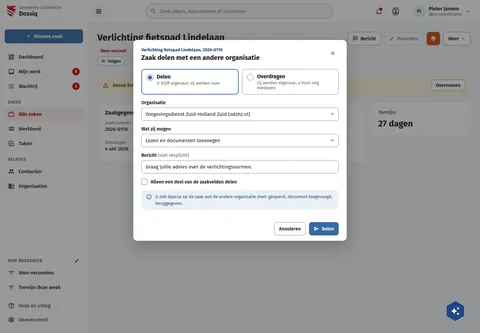
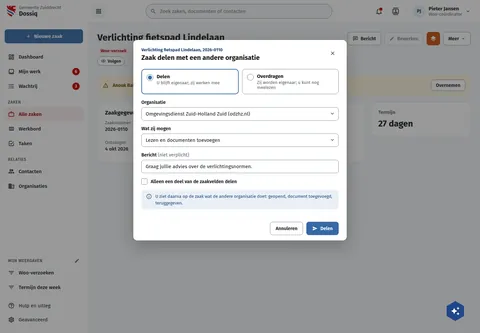
fix(screens): DqZaakSamenwerken's options and footer as the other dialogs
The Delen/Overdragen option names at 15px like every dialog's options (they
inherited 16), and the footer buttons padded as the dialog boards draw them:
16px for Annuleren, 18px for Delen with its icon (r32: 16 vs 15, 14 vs 18).

Assisted-by: ClaudeCode:claude-opus-5-5

diff --git a/preview/screens/boards/DqZaakSamenwerken.html b/preview/screens/boards/DqZaakSamenwerken.html
@@ -154,8 +154,8 @@ a{color:var(--sc-primary, #3669a5)}a:hover{color:var(--sc-primary-deep, #234a78)
         <div style="display: flex; flex-direction: column; gap: 4px"><span style="font-size: 13px; font-weight: 700; color: var(--sc-primary-deep, #234a78)">Verlichting fietspad Lindelaan, 2026-0110</span><h2 id="dlg-titel" style="margin: 0; font-size: 20px; font-weight: 700">Zaak delen met een andere organisatie</h2></div>
         <button type="button" aria-label="Sluiten" style="width: 36px; height: 36px; border: 0; border-radius: 18px; background: transparent; color: var(--sc-work-text, #3d4047); display: inline-flex; align-items: center; justify-content: center"><svg width="18" height="18" viewbox="0 0 24 24" fill="currentColor" aria-hidden="true"><path d="M19,6.41L17.59,5L12,10.59L6.41,5L5,6.41L10.59,12L5,17.59L6.41,19L12,13.41L17.59,19L19,17.59L13.41,12L19,6.41Z"></path></svg></button>
       </div>
-      <div style="padding: 18px 24px 20px; display: flex; flex-direction: column; gap: 16px"><fieldset style="margin: 0; padding: 0; border: 0; display: flex; gap: 10px"><label style="flex: 1; display: flex; gap: 10px; align-items: flex-start; padding: 12px 14px; border: 2px solid var(--sc-primary, #3669a5); border-radius: 10px"><input type="radio" checked style="width: 20px; height: 20px; margin: 2px 0 0; accent-color: var(--sc-primary, #3669a5); flex: none"><span style="display: flex; flex-direction: column; gap: 2px"><strong>Delen</strong><span style="font-size: 13px; color: var(--sc-work-muted, #5e6168)">U blijft eigenaar; zij werken mee</span></span></label><label style="flex: 1; display: flex; gap: 10px; align-items: flex-start; padding: 12px 14px; border: 1px solid var(--sc-work-field, #828a95); border-radius: 10px"><input type="radio" style="width: 20px; height: 20px; margin: 2px 0 0; accent-color: var(--sc-primary, #3669a5); flex: none"><span style="display: flex; flex-direction: column; gap: 2px"><strong>Overdragen</strong><span style="font-size: 13px; color: var(--sc-work-muted, #5e6168)">Zij worden eigenaar; u kunt nog meelezen</span></span></label></fieldset><div style="display: flex; flex-direction: column; gap: 6px"><label style="font-size: 14px; font-weight: 600">Organisatie</label><div style="position: relative"><select style="appearance: none; width: 100%; height: 40px; box-sizing: border-box; padding: 0 36px 0 12px; border: 1px solid var(--sc-work-field, #828a95); border-radius: 8px; background: #ffffff; font: 400 15px var(--sc-font, 'Fira Sans'), sans-serif; color: var(--sc-work-ink, #1b1c1d)"><option>Omgevingsdienst Zuid-Holland Zuid (odzhz.nl)</option></select><span style="position: absolute; right: 10px; top: 10px; color: var(--sc-work-text, #3d4047)"><svg width="18" height="18" viewbox="0 0 24 24" fill="currentColor" aria-hidden="true"><path d="M7.41,8.58L12,13.17L16.59,8.58L18,10L12,16L6,10L7.41,8.58Z"></path></svg></span></div></div><div style="display: flex; flex-direction: column; gap: 6px"><label style="font-size: 14px; font-weight: 600">Wat zij mogen</label><div style="position: relative"><select style="appearance: none; width: 100%; height: 40px; box-sizing: border-box; padding: 0 36px 0 12px; border: 1px solid var(--sc-work-field, #828a95); border-radius: 8px; background: #ffffff; font: 400 15px var(--sc-font, 'Fira Sans'), sans-serif; color: var(--sc-work-ink, #1b1c1d)"><option>Lezen en documenten toevoegen</option></select><span style="position: absolute; right: 10px; top: 10px; color: var(--sc-work-text, #3d4047)"><svg width="18" height="18" viewbox="0 0 24 24" fill="currentColor" aria-hidden="true"><path d="M7.41,8.58L12,13.17L16.59,8.58L18,10L12,16L6,10L7.41,8.58Z"></path></svg></span></div></div><div style="display: flex; flex-direction: column; gap: 6px"><label style="font-size: 14px; font-weight: 600">Bericht <span style="font-weight: 400; color: var(--sc-work-muted, #5e6168)">(niet verplicht)</span></label><input type="text" value="Graag jullie advies over de verlichtingsnormen." style="box-sizing: border-box; width: 100%; height: 40px; padding: 0 12px; border: 1px solid var(--sc-work-field, #828a95); border-radius: 8px; background: #ffffff; font: 400 15px var(--sc-font, 'Fira Sans'), sans-serif; color: var(--sc-work-ink, #1b1c1d)"></div><label style="display: flex; gap: 10px; align-items: center; font-size: 14px; font-weight: 600"><input type="checkbox" style="width: 18px; height: 18px; margin: 0; accent-color: var(--sc-primary, #3669a5); flex: none">Alleen een deel van de zaakvelden delen</label><div style="display: flex; gap: 10px; align-items: flex-start; padding: 10px 14px; border-radius: 10px; background: var(--sc-primary-light, #eaf0f7); color: var(--sc-primary-deep, #234a78); font-size: 13px; line-height: 1.5"><span style="flex: none; margin-top: 1px"><svg width="18" height="18" viewbox="0 0 24 24" fill="currentColor" aria-hidden="true"><path d="M11,9H13V7H11M12,20C7.59,20 4,16.41 4,12C4,7.59 7.59,4 12,4C16.41,4 20,7.59 20,12C20,16.41 16.41,20 12,20M12,2A10,10 0 0,0 2,12A10,10 0 0,0 12,22A10,10 0 0,0 22,12A10,10 0 0,0 12,2M11,17H13V11H11V17Z"></path></svg></span><span>U ziet daarna op de zaak wat de andere organisatie doet: geopend, document toegevoegd, teruggegeven.</span></div></div>
-      <div style="display: flex; justify-content: flex-end; gap: 10px; padding: 16px 24px; border-top: 1px solid var(--sc-work-soft, #eef0f3)"><button type="button" style="display: inline-flex; align-items: center; gap: 8px; height: 40px; padding: 0 14px; border-radius: 8px; font: 600 14px var(--sc-font, 'Fira Sans'), sans-serif; white-space: nowrap; border: 1px solid var(--sc-work-field, #828a95); background: #ffffff; color: var(--sc-work-ink, #1b1c1d);">Annuleren</button><button type="button" style="display: inline-flex; align-items: center; gap: 8px; height: 40px; padding: 0 14px; border-radius: 8px; font: 600 14px var(--sc-font, 'Fira Sans'), sans-serif; white-space: nowrap; border: 0; background: var(--sc-primary, #3669a5); color: #ffffff;"><svg width="16" height="16" viewbox="0 0 24 24" fill="currentColor" aria-hidden="true"><path d="M2,21L23,12L2,3V10L17,12L2,14V21Z"></path></svg>Delen</button></div>
+      <div style="padding: 18px 24px 20px; display: flex; flex-direction: column; gap: 16px"><fieldset style="margin: 0; padding: 0; border: 0; display: flex; gap: 10px"><label style="flex: 1; display: flex; gap: 10px; align-items: flex-start; padding: 12px 14px; border: 2px solid var(--sc-primary, #3669a5); border-radius: 10px"><input type="radio" checked style="width: 20px; height: 20px; margin: 2px 0 0; accent-color: var(--sc-primary, #3669a5); flex: none"><span style="display: flex; flex-direction: column; gap: 2px"><strong style="font-size: 15px">Delen</strong><span style="font-size: 13px; color: var(--sc-work-muted, #5e6168)">U blijft eigenaar; zij werken mee</span></span></label><label style="flex: 1; display: flex; gap: 10px; align-items: flex-start; padding: 12px 14px; border: 1px solid var(--sc-work-field, #828a95); border-radius: 10px"><input type="radio" style="width: 20px; height: 20px; margin: 2px 0 0; accent-color: var(--sc-primary, #3669a5); flex: none"><span style="display: flex; flex-direction: column; gap: 2px"><strong style="font-size: 15px">Overdragen</strong><span style="font-size: 13px; color: var(--sc-work-muted, #5e6168)">Zij worden eigenaar; u kunt nog meelezen</span></span></label></fieldset><div style="display: flex; flex-direction: column; gap: 6px"><label style="font-size: 14px; font-weight: 600">Organisatie</label><div style="position: relative"><select style="appearance: none; width: 100%; height: 40px; box-sizing: border-box; padding: 0 36px 0 12px; border: 1px solid var(--sc-work-field, #828a95); border-radius: 8px; background: #ffffff; font: 400 15px var(--sc-font, 'Fira Sans'), sans-serif; color: var(--sc-work-ink, #1b1c1d)"><option>Omgevingsdienst Zuid-Holland Zuid (odzhz.nl)</option></select><span style="position: absolute; right: 10px; top: 10px; color: var(--sc-work-text, #3d4047)"><svg width="18" height="18" viewbox="0 0 24 24" fill="currentColor" aria-hidden="true"><path d="M7.41,8.58L12,13.17L16.59,8.58L18,10L12,16L6,10L7.41,8.58Z"></path></svg></span></div></div><div style="display: flex; flex-direction: column; gap: 6px"><label style="font-size: 14px; font-weight: 600">Wat zij mogen</label><div style="position: relative"><select style="appearance: none; width: 100%; height: 40px; box-sizing: border-box; padding: 0 36px 0 12px; border: 1px solid var(--sc-work-field, #828a95); border-radius: 8px; background: #ffffff; font: 400 15px var(--sc-font, 'Fira Sans'), sans-serif; color: var(--sc-work-ink, #1b1c1d)"><option>Lezen en documenten toevoegen</option></select><span style="position: absolute; right: 10px; top: 10px; color: var(--sc-work-text, #3d4047)"><svg width="18" height="18" viewbox="0 0 24 24" fill="currentColor" aria-hidden="true"><path d="M7.41,8.58L12,13.17L16.59,8.58L18,10L12,16L6,10L7.41,8.58Z"></path></svg></span></div></div><div style="display: flex; flex-direction: column; gap: 6px"><label style="font-size: 14px; font-weight: 600">Bericht <span style="font-weight: 400; color: var(--sc-work-muted, #5e6168)">(niet verplicht)</span></label><input type="text" value="Graag jullie advies over de verlichtingsnormen." style="box-sizing: border-box; width: 100%; height: 40px; padding: 0 12px; border: 1px solid var(--sc-work-field, #828a95); border-radius: 8px; background: #ffffff; font: 400 15px var(--sc-font, 'Fira Sans'), sans-serif; color: var(--sc-work-ink, #1b1c1d)"></div><label style="display: flex; gap: 10px; align-items: center; font-size: 14px; font-weight: 600"><input type="checkbox" style="width: 18px; height: 18px; margin: 0; accent-color: var(--sc-primary, #3669a5); flex: none">Alleen een deel van de zaakvelden delen</label><div style="display: flex; gap: 10px; align-items: flex-start; padding: 10px 14px; border-radius: 10px; background: var(--sc-primary-light, #eaf0f7); color: var(--sc-primary-deep, #234a78); font-size: 13px; line-height: 1.5"><span style="flex: none; margin-top: 1px"><svg width="18" height="18" viewbox="0 0 24 24" fill="currentColor" aria-hidden="true"><path d="M11,9H13V7H11M12,20C7.59,20 4,16.41 4,12C4,7.59 7.59,4 12,4C16.41,4 20,7.59 20,12C20,16.41 16.41,20 12,20M12,2A10,10 0 0,0 2,12A10,10 0 0,0 12,22A10,10 0 0,0 22,12A10,10 0 0,0 12,2M11,17H13V11H11V17Z"></path></svg></span><span>U ziet daarna op de zaak wat de andere organisatie doet: geopend, document toegevoegd, teruggegeven.</span></div></div>
+      <div style="display: flex; justify-content: flex-end; gap: 10px; padding: 16px 24px; border-top: 1px solid var(--sc-work-soft, #eef0f3)"><button type="button" style="display: inline-flex; align-items: center; gap: 8px; height: 40px; padding: 0 16px; border-radius: 8px; font: 600 14px var(--sc-font, 'Fira Sans'), sans-serif; white-space: nowrap; border: 1px solid var(--sc-work-field, #828a95); background: #ffffff; color: var(--sc-work-ink, #1b1c1d);">Annuleren</button><button type="button" style="display: inline-flex; align-items: center; gap: 8px; height: 40px; padding: 0 18px; border-radius: 8px; font: 600 14px var(--sc-font, 'Fira Sans'), sans-serif; white-space: nowrap; border: 0; background: var(--sc-primary, #3669a5); color: #ffffff;"><svg width="16" height="16" viewbox="0 0 24 24" fill="currentColor" aria-hidden="true"><path d="M2,21L23,12L2,3V10L17,12L2,14V21Z"></path></svg>Delen</button></div>
     </div>
   </div>
 </div>

diff --git a/screens-src/zuiddrecht/DqZaakSamenwerken.dc.html b/screens-src/zuiddrecht/DqZaakSamenwerken.dc.html
@@ -36,8 +36,8 @@ a{color:#3669a5}a:hover{color:#234a78}
         <div style="display: flex; flex-direction: column; gap: 4px"><span style="font-size: 13px; font-weight: 700; color: #234a78">Verlichting fietspad Lindelaan, 2026-0110</span><h2 id="dlg-titel" style="margin: 0; font-size: 20px; font-weight: 700">Zaak delen met een andere organisatie</h2></div>
         <button type="button" aria-label="Sluiten" style="width: 36px; height: 36px; border: 0; border-radius: 18px; background: transparent; color: #3d4047; display: inline-flex; align-items: center; justify-content: center"><svg width="18" height="18" viewBox="0 0 24 24" fill="currentColor" aria-hidden="true"><path d="M19,6.41L17.59,5L12,10.59L6.41,5L5,6.41L10.59,12L5,17.59L6.41,19L12,13.41L17.59,19L19,17.59L13.41,12L19,6.41Z"></path></svg></button>
       </div>
-      <div style="padding: 18px 24px 20px; display: flex; flex-direction: column; gap: 16px"><fieldset style="margin: 0; padding: 0; border: 0; display: flex; gap: 10px"><label style="flex: 1; display: flex; gap: 10px; align-items: flex-start; padding: 12px 14px; border: 2px solid #3669a5; border-radius: 10px"><input type="radio" checked style="width: 20px; height: 20px; margin: 2px 0 0; accent-color: #3669a5; flex: none"><span style="display: flex; flex-direction: column; gap: 2px"><strong>Delen</strong><span style="font-size: 13px; color: #5e6168">U blijft eigenaar; zij werken mee</span></span></label><label style="flex: 1; display: flex; gap: 10px; align-items: flex-start; padding: 12px 14px; border: 1px solid #828a95; border-radius: 10px"><input type="radio"  style="width: 20px; height: 20px; margin: 2px 0 0; accent-color: #3669a5; flex: none"><span style="display: flex; flex-direction: column; gap: 2px"><strong>Overdragen</strong><span style="font-size: 13px; color: #5e6168">Zij worden eigenaar; u kunt nog meelezen</span></span></label></fieldset><div style="display: flex; flex-direction: column; gap: 6px"><label style="font-size: 14px; font-weight: 600">Organisatie</label><div style="position: relative"><select style="appearance: none; width: 100%; height: 40px; box-sizing: border-box; padding: 0 36px 0 12px; border: 1px solid #828a95; border-radius: 8px; background: #ffffff; font: 400 15px 'Fira Sans', sans-serif; color: #1b1c1d"><option>Omgevingsdienst Zuid-Holland Zuid (odzhz.nl)</option></select><span style="position: absolute; right: 10px; top: 10px; color: #3d4047"><svg width="18" height="18" viewBox="0 0 24 24" fill="currentColor" aria-hidden="true"><path d="M7.41,8.58L12,13.17L16.59,8.58L18,10L12,16L6,10L7.41,8.58Z"></path></svg></span></div></div><div style="display: flex; flex-direction: column; gap: 6px"><label style="font-size: 14px; font-weight: 600">Wat zij mogen</label><div style="position: relative"><select style="appearance: none; width: 100%; height: 40px; box-sizing: border-box; padding: 0 36px 0 12px; border: 1px solid #828a95; border-radius: 8px; background: #ffffff; font: 400 15px 'Fira Sans', sans-serif; color: #1b1c1d"><option>Lezen en documenten toevoegen</option></select><span style="position: absolute; right: 10px; top: 10px; color: #3d4047"><svg width="18" height="18" viewBox="0 0 24 24" fill="currentColor" aria-hidden="true"><path d="M7.41,8.58L12,13.17L16.59,8.58L18,10L12,16L6,10L7.41,8.58Z"></path></svg></span></div></div><div style="display: flex; flex-direction: column; gap: 6px"><label style="font-size: 14px; font-weight: 600">Bericht <span style="font-weight: 400; color: #5e6168">(niet verplicht)</span></label><input type="text" value="Graag jullie advies over de verlichtingsnormen." style="box-sizing: border-box; width: 100%; height: 40px; padding: 0 12px; border: 1px solid #828a95; border-radius: 8px; background: #ffffff; font: 400 15px 'Fira Sans', sans-serif; color: #1b1c1d"></div><label style="display: flex; gap: 10px; align-items: center; font-size: 14px; font-weight: 600"><input type="checkbox" style="width: 18px; height: 18px; margin: 0; accent-color: #3669a5; flex: none">Alleen een deel van de zaakvelden delen</label><div style="display: flex; gap: 10px; align-items: flex-start; padding: 10px 14px; border-radius: 10px; background: #eaf0f7; color: #234a78; font-size: 13px; line-height: 1.5"><span style="flex: none; margin-top: 1px"><svg width="18" height="18" viewBox="0 0 24 24" fill="currentColor" aria-hidden="true"><path d="M11,9H13V7H11M12,20C7.59,20 4,16.41 4,12C4,7.59 7.59,4 12,4C16.41,4 20,7.59 20,12C20,16.41 16.41,20 12,20M12,2A10,10 0 0,0 2,12A10,10 0 0,0 12,22A10,10 0 0,0 22,12A10,10 0 0,0 12,2M11,17H13V11H11V17Z"></path></svg></span><span>U ziet daarna op de zaak wat de andere organisatie doet: geopend, document toegevoegd, teruggegeven.</span></div></div>
-      <div style="display: flex; justify-content: flex-end; gap: 10px; padding: 16px 24px; border-top: 1px solid #eef0f3"><button type="button" style="display: inline-flex; align-items: center; gap: 8px; height: 40px; padding: 0 14px; border-radius: 8px; font: 600 14px 'Fira Sans', sans-serif; white-space: nowrap; border: 1px solid #828a95; background: #ffffff; color: #1b1c1d;">Annuleren</button><button type="button" style="display: inline-flex; align-items: center; gap: 8px; height: 40px; padding: 0 14px; border-radius: 8px; font: 600 14px 'Fira Sans', sans-serif; white-space: nowrap; border: 0; background: #3669a5; color: #ffffff;"><svg width="16" height="16" viewBox="0 0 24 24" fill="currentColor" aria-hidden="true"><path d="M2,21L23,12L2,3V10L17,12L2,14V21Z"></path></svg>Delen</button></div>
+      <div style="padding: 18px 24px 20px; display: flex; flex-direction: column; gap: 16px"><fieldset style="margin: 0; padding: 0; border: 0; display: flex; gap: 10px"><label style="flex: 1; display: flex; gap: 10px; align-items: flex-start; padding: 12px 14px; border: 2px solid #3669a5; border-radius: 10px"><input type="radio" checked style="width: 20px; height: 20px; margin: 2px 0 0; accent-color: #3669a5; flex: none"><span style="display: flex; flex-direction: column; gap: 2px"><strong style="font-size: 15px">Delen</strong><span style="font-size: 13px; color: #5e6168">U blijft eigenaar; zij werken mee</span></span></label><label style="flex: 1; display: flex; gap: 10px; align-items: flex-start; padding: 12px 14px; border: 1px solid #828a95; border-radius: 10px"><input type="radio"  style="width: 20px; height: 20px; margin: 2px 0 0; accent-color: #3669a5; flex: none"><span style="display: flex; flex-direction: column; gap: 2px"><strong style="font-size: 15px">Overdragen</strong><span style="font-size: 13px; color: #5e6168">Zij worden eigenaar; u kunt nog meelezen</span></span></label></fieldset><div style="display: flex; flex-direction: column; gap: 6px"><label style="font-size: 14px; font-weight: 600">Organisatie</label><div style="position: relative"><select style="appearance: none; width: 100%; height: 40px; box-sizing: border-box; padding: 0 36px 0 12px; border: 1px solid #828a95; border-radius: 8px; background: #ffffff; font: 400 15px 'Fira Sans', sans-serif; color: #1b1c1d"><option>Omgevingsdienst Zuid-Holland Zuid (odzhz.nl)</option></select><span style="position: absolute; right: 10px; top: 10px; color: #3d4047"><svg width="18" height="18" viewBox="0 0 24 24" fill="currentColor" aria-hidden="true"><path d="M7.41,8.58L12,13.17L16.59,8.58L18,10L12,16L6,10L7.41,8.58Z"></path></svg></span></div></div><div style="display: flex; flex-direction: column; gap: 6px"><label style="font-size: 14px; font-weight: 600">Wat zij mogen</label><div style="position: relative"><select style="appearance: none; width: 100%; height: 40px; box-sizing: border-box; padding: 0 36px 0 12px; border: 1px solid #828a95; border-radius: 8px; background: #ffffff; font: 400 15px 'Fira Sans', sans-serif; color: #1b1c1d"><option>Lezen en documenten toevoegen</option></select><span style="position: absolute; right: 10px; top: 10px; color: #3d4047"><svg width="18" height="18" viewBox="0 0 24 24" fill="currentColor" aria-hidden="true"><path d="M7.41,8.58L12,13.17L16.59,8.58L18,10L12,16L6,10L7.41,8.58Z"></path></svg></span></div></div><div style="display: flex; flex-direction: column; gap: 6px"><label style="font-size: 14px; font-weight: 600">Bericht <span style="font-weight: 400; color: #5e6168">(niet verplicht)</span></label><input type="text" value="Graag jullie advies over de verlichtingsnormen." style="box-sizing: border-box; width: 100%; height: 40px; padding: 0 12px; border: 1px solid #828a95; border-radius: 8px; background: #ffffff; font: 400 15px 'Fira Sans', sans-serif; color: #1b1c1d"></div><label style="display: flex; gap: 10px; align-items: center; font-size: 14px; font-weight: 600"><input type="checkbox" style="width: 18px; height: 18px; margin: 0; accent-color: #3669a5; flex: none">Alleen een deel van de zaakvelden delen</label><div style="display: flex; gap: 10px; align-items: flex-start; padding: 10px 14px; border-radius: 10px; background: #eaf0f7; color: #234a78; font-size: 13px; line-height: 1.5"><span style="flex: none; margin-top: 1px"><svg width="18" height="18" viewBox="0 0 24 24" fill="currentColor" aria-hidden="true"><path d="M11,9H13V7H11M12,20C7.59,20 4,16.41 4,12C4,7.59 7.59,4 12,4C16.41,4 20,7.59 20,12C20,16.41 16.41,20 12,20M12,2A10,10 0 0,0 2,12A10,10 0 0,0 12,22A10,10 0 0,0 22,12A10,10 0 0,0 12,2M11,17H13V11H11V17Z"></path></svg></span><span>U ziet daarna op de zaak wat de andere organisatie doet: geopend, document toegevoegd, teruggegeven.</span></div></div>
+      <div style="display: flex; justify-content: flex-end; gap: 10px; padding: 16px 24px; border-top: 1px solid #eef0f3"><button type="button" style="display: inline-flex; align-items: center; gap: 8px; height: 40px; padding: 0 16px; border-radius: 8px; font: 600 14px 'Fira Sans', sans-serif; white-space: nowrap; border: 1px solid #828a95; background: #ffffff; color: #1b1c1d;">Annuleren</button><button type="button" style="display: inline-flex; align-items: center; gap: 8px; height: 40px; padding: 0 18px; border-radius: 8px; font: 600 14px 'Fira Sans', sans-serif; white-space: nowrap; border: 0; background: #3669a5; color: #ffffff;"><svg width="16" height="16" viewBox="0 0 24 24" fill="currentColor" aria-hidden="true"><path d="M2,21L23,12L2,3V10L17,12L2,14V21Z"></path></svg>Delen</button></div>
     </div>
   </div>
 </div>
